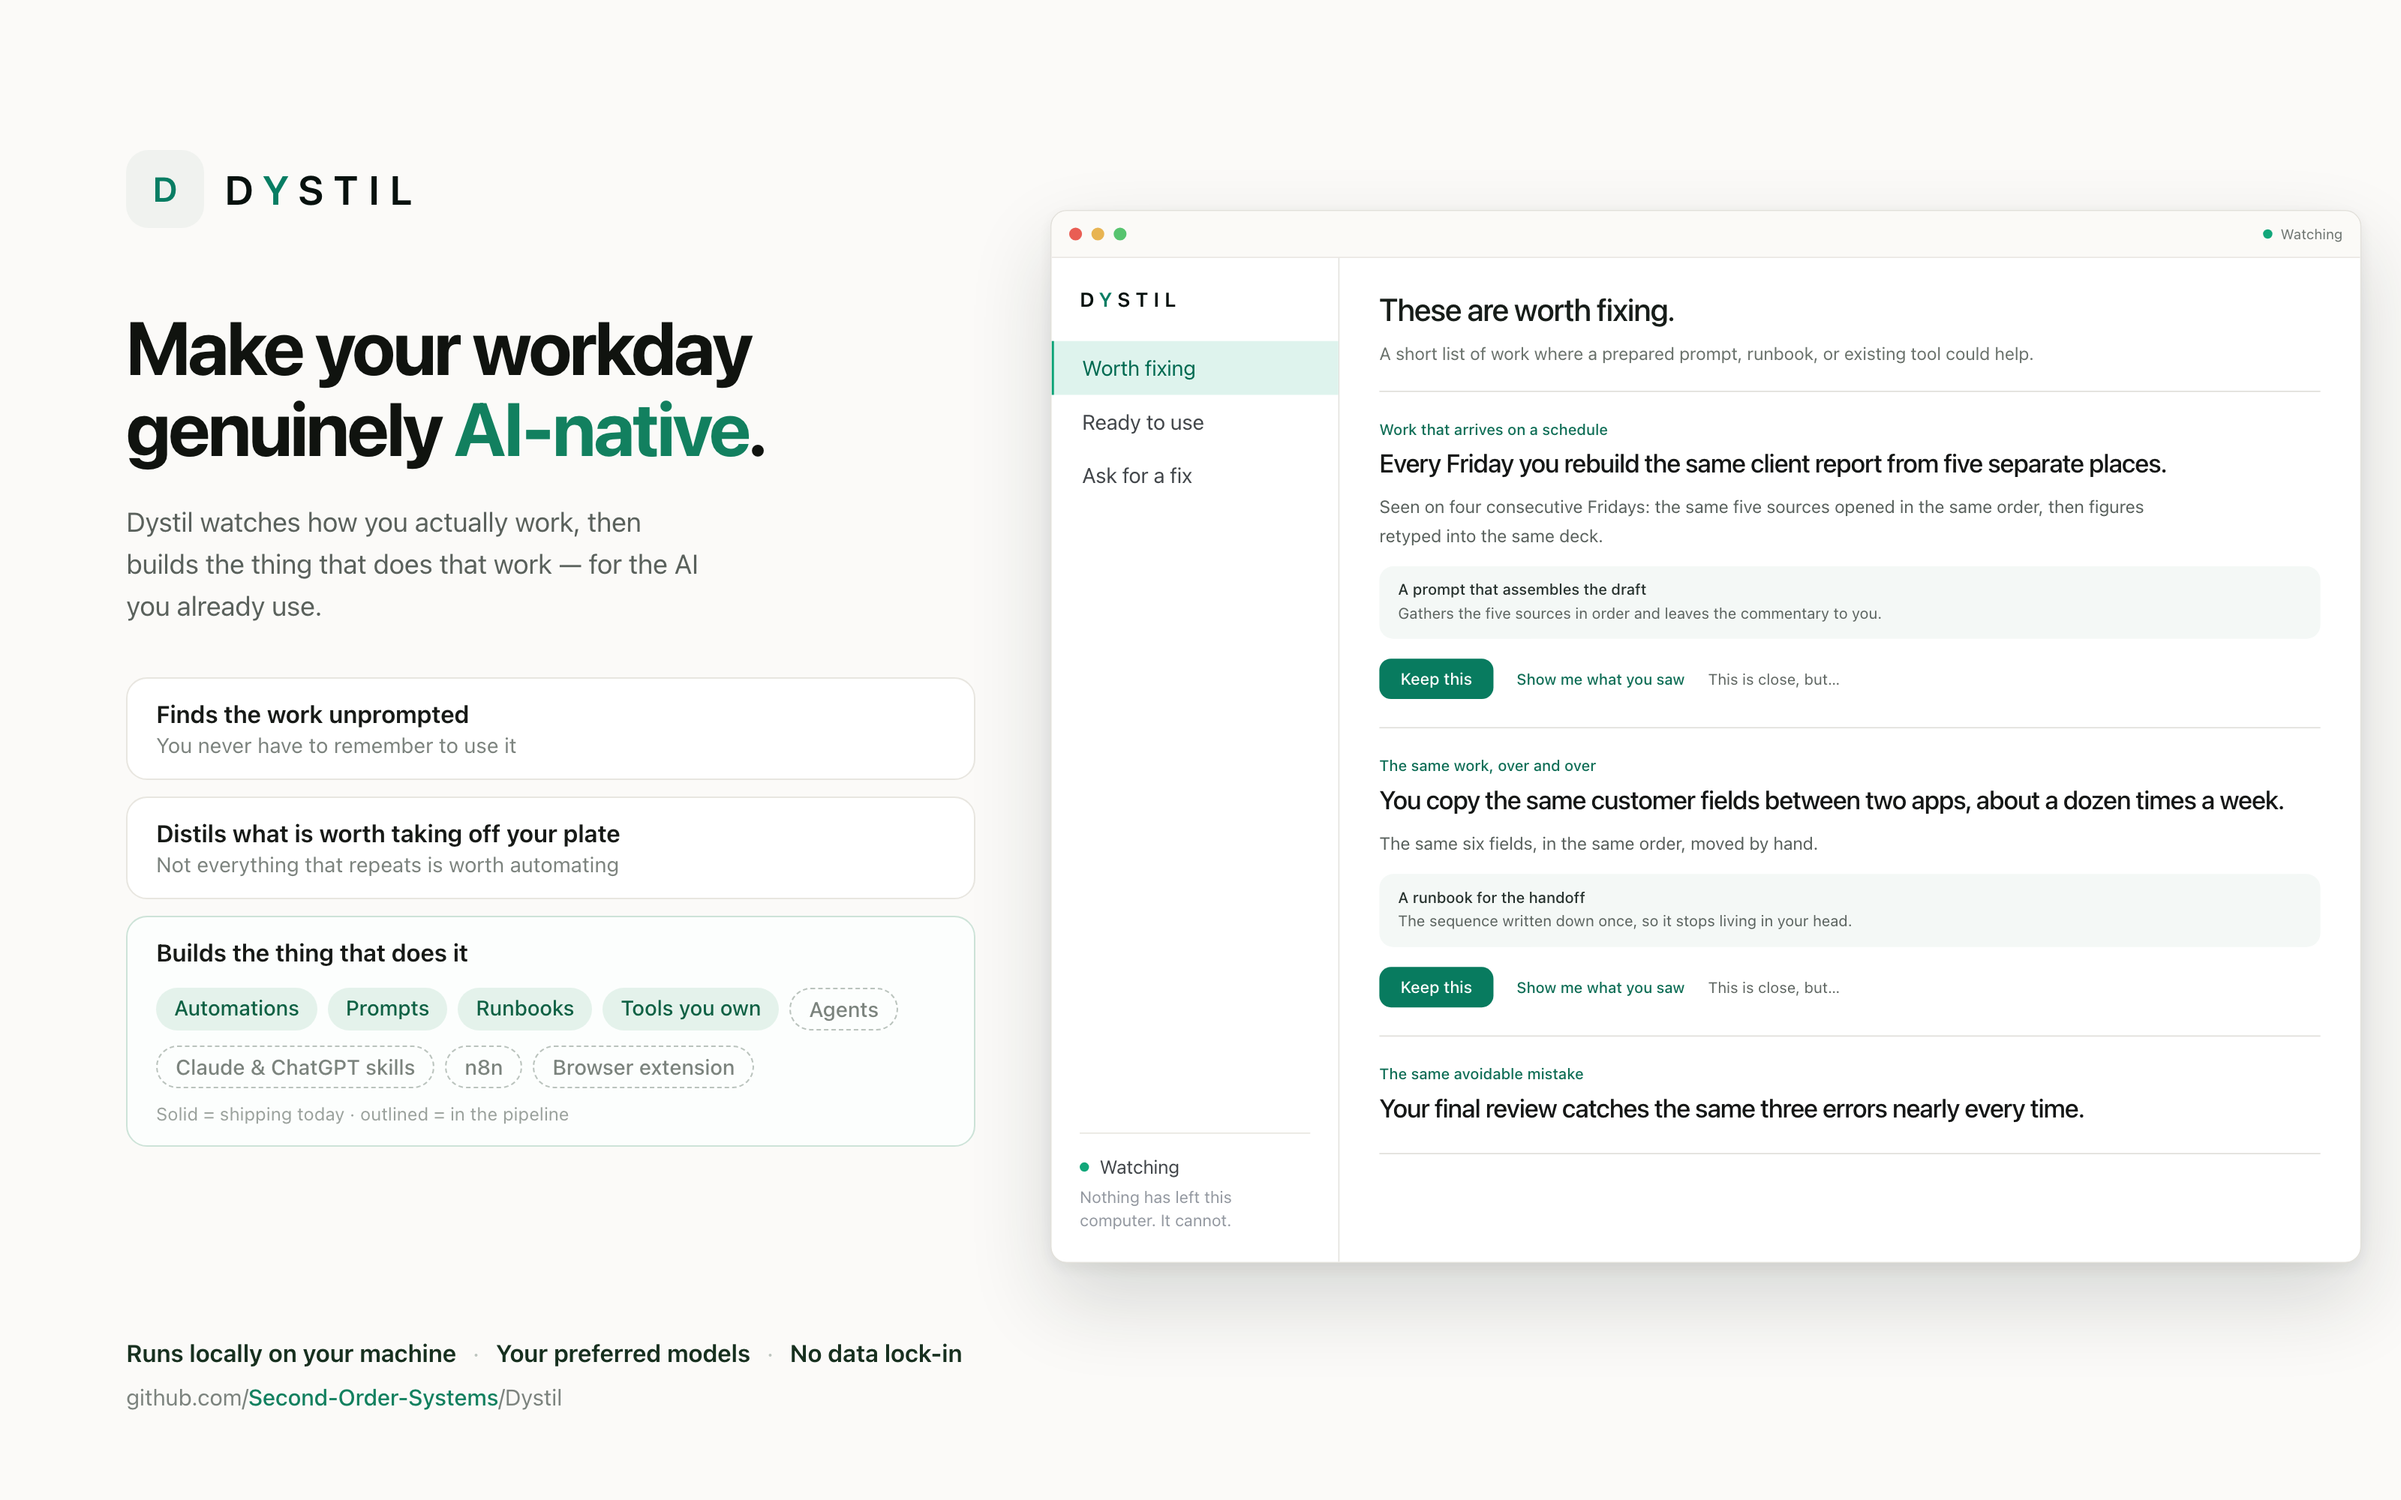
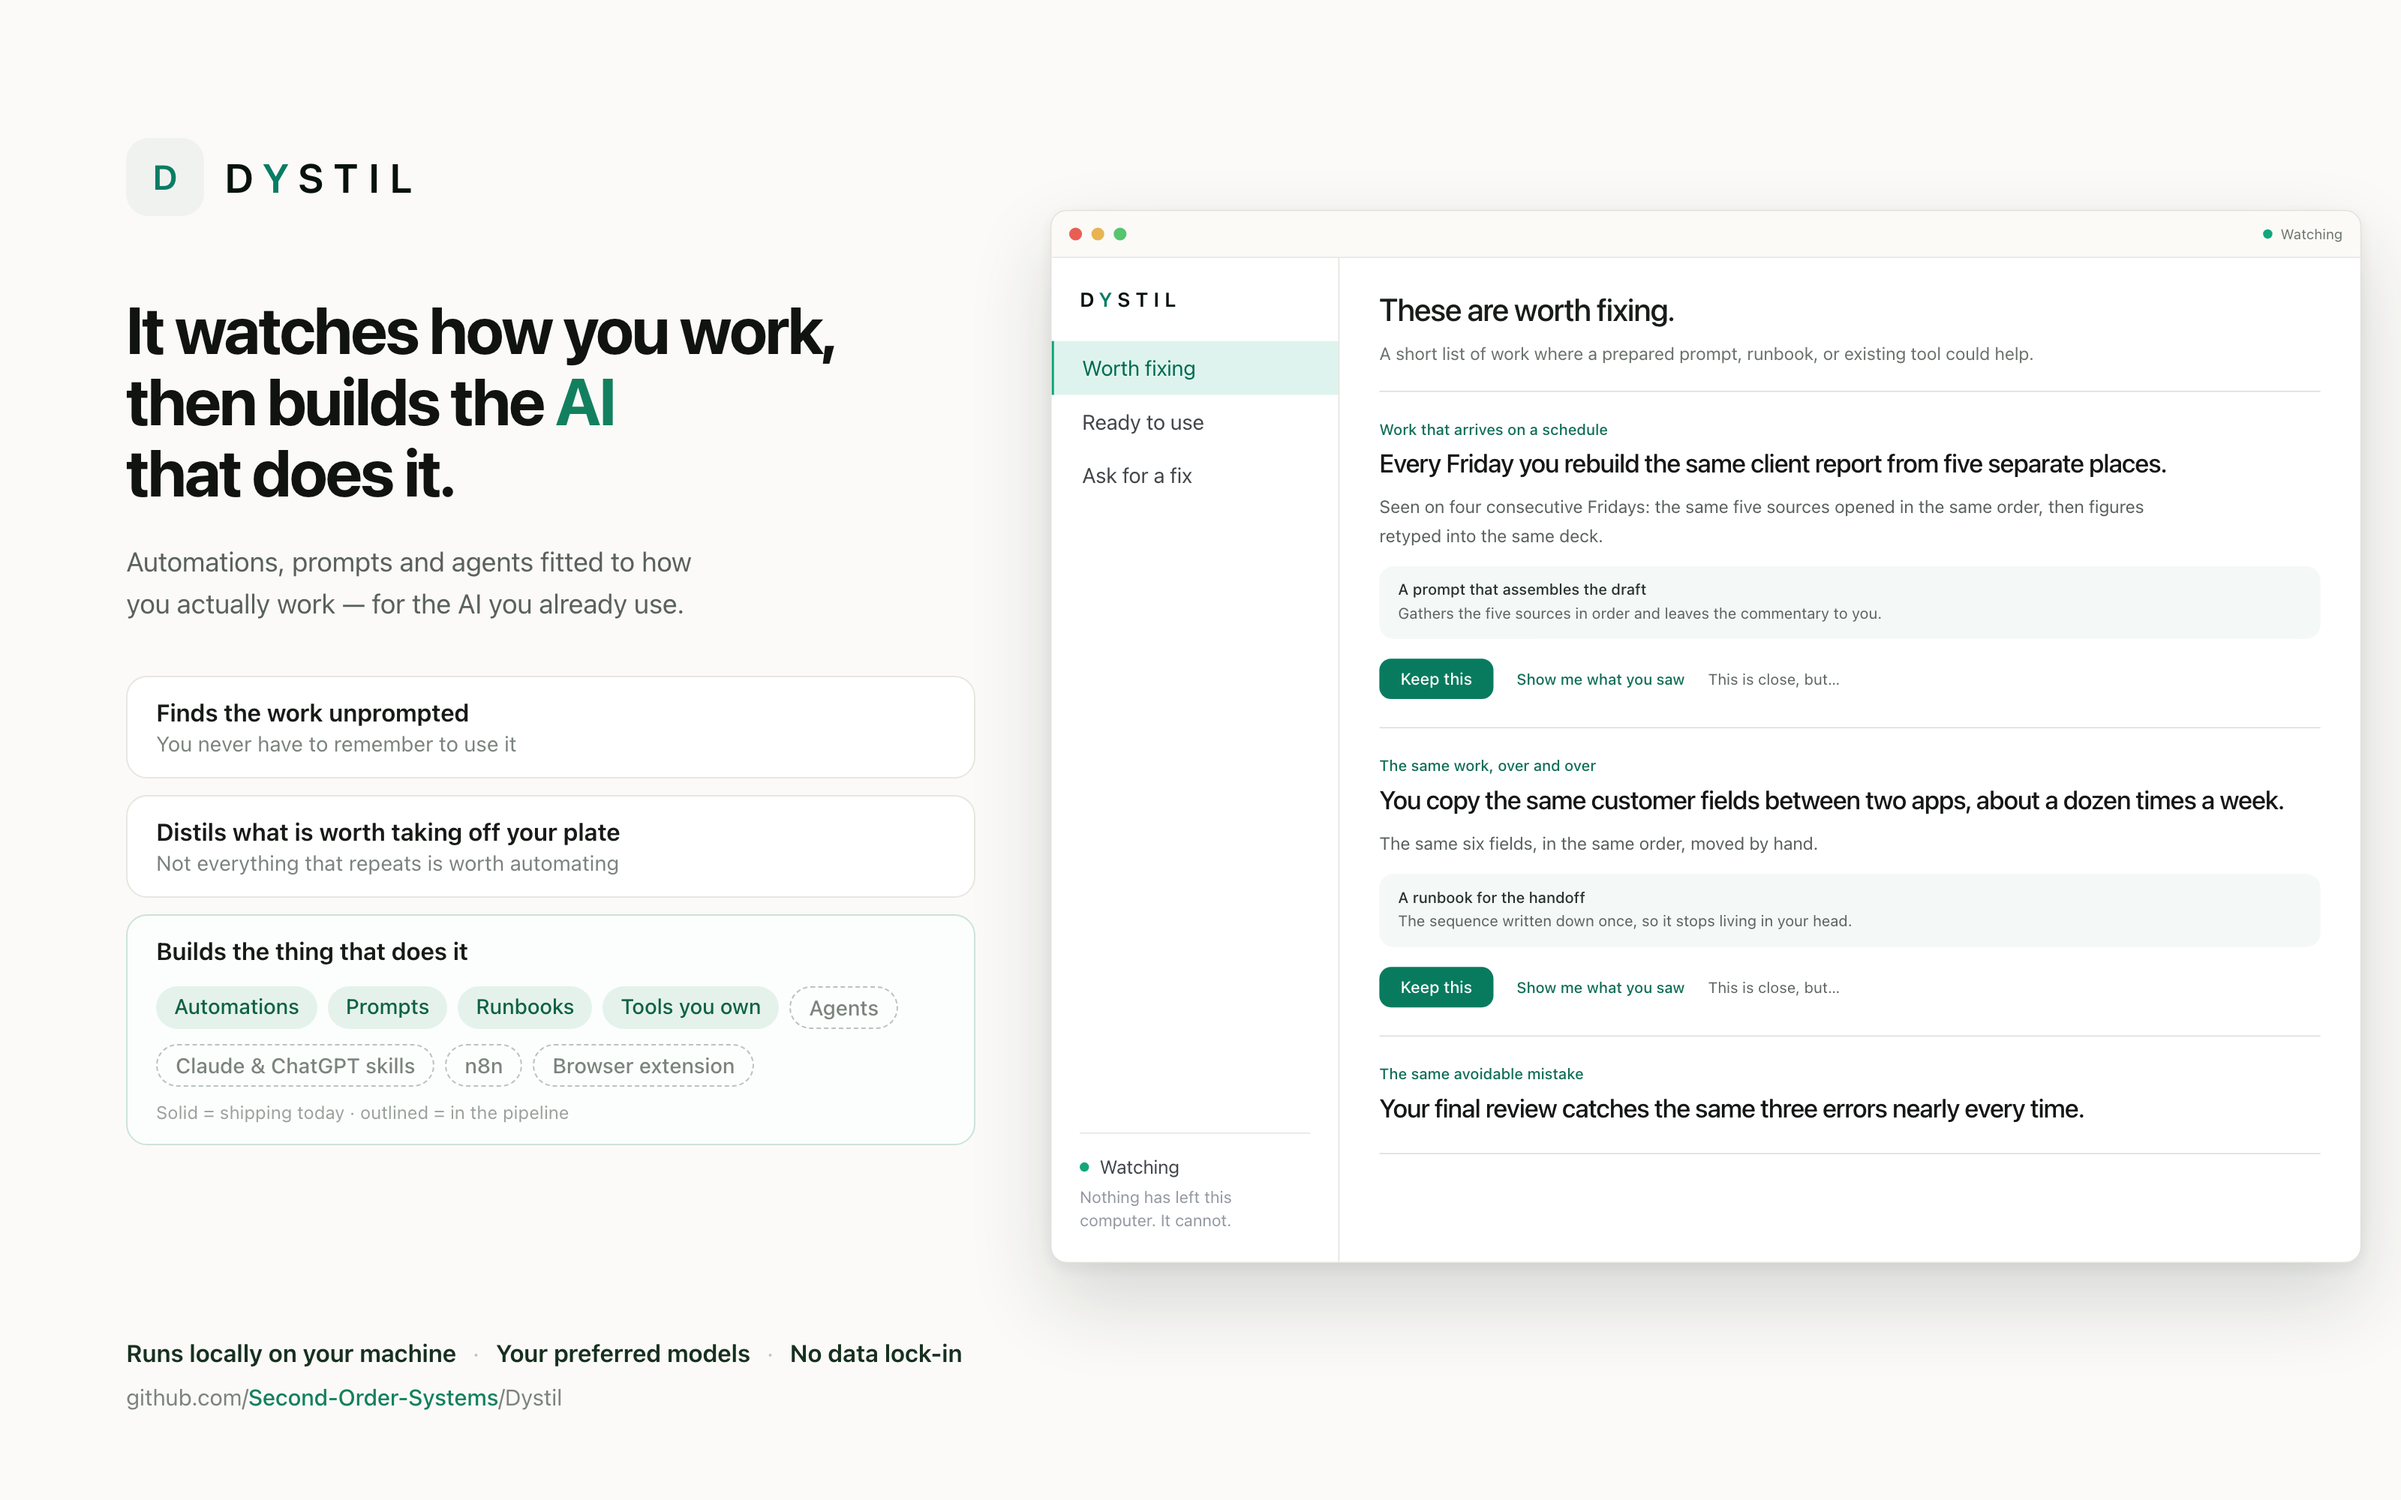
docs: replace the AI-native tagline with what the product actually does
"Make your workday genuinely AI-native" was a category label rather than a
claim. The reader cannot picture anything from it, every vendor in the space
says it, and it buried the two things nobody else can say: that it watched you,
and that it builds the thing.

The tagline is now "It watches how you work, then builds the AI that does it."
Mechanism and outcome in one line, no jargon, and it is difficult to say
truthfully about any competing product.

The supporting line stops restating the headline and lists the output instead —
automations, prompts and agents, for the AI you already use. The blockquote
below it no longer duplicates the header either; it now covers the middle step,
the one question only the user can answer.

Carried through POSITIONING.md, PRODUCT.md, MARKETING_NARRATIVE.md and the hero
banner, with a note in POSITIONING.md recording why AI-native was dropped so it
does not come back.

diff --git a/public_docs/media/src/hero.html b/public_docs/media/src/hero.html
@@ -4,14 +4,14 @@
 body { background: #FBFAF8; display: block; position: relative; }
 .sheet { position: absolute; inset: 0; overflow: hidden; }
 
-.left { position: absolute; left: 84px; top: 100px; width: 566px; }
+.left { position: absolute; left: 84px; top: 92px; width: 590px; }
 .mark { display: flex; align-items: center; gap: 14px; margin-bottom: 52px; }
 .mark .glyph { width: 52px; height: 52px; border-radius: 15px; background: #F0F2EF;
   display: grid; place-items: center; font-size: 23px; font-weight: 600; color: #087D63; }
 .mark .name { font-size: 27px; font-weight: 600; letter-spacing: .26em; color: #07110E; }
 .mark .name i { font-style: normal; color: #087D63; }
 
-h1.hero { font-size: 50px; font-weight: 700; line-height: 1.08; letter-spacing: -.035em; color: #10130F; }
+h1.hero { font-size: 44px; font-weight: 700; line-height: 1.08; letter-spacing: -.035em; color: #10130F; }
 h1.hero em { font-style: normal; color: #12805F; }
 p.sub { margin-top: 22px; max-width: 34ch; font-size: 18px; line-height: 1.55; color: #5A615C; }
 
@@ -50,8 +50,8 @@ h1.page { font-size: 27px; }
       <div class="name">D<i>Y</i>STIL</div>
     </div>
 
-    <h1 class="hero">Make your workday<br>genuinely <em>AI-native</em>.</h1>
-    <p class="sub">Dystil watches how you actually work, then builds the thing that does that work — for the AI you already use.</p>
+    <h1 class="hero">It watches how you work,<br>then builds the <em>AI</em><br>that does it.</h1>
+    <p class="sub">Automations, prompts and agents fitted to how you actually work — for the AI you already use.</p>
 
     <div class="points">
       <div class="point"><b>Finds the work unprompted</b><span>You never have to remember to use it</span></div>

diff --git a/README.md b/README.md
@@ -3,8 +3,8 @@
 
   <h1>Dystil</h1>
 
-  <p><strong>Make your workday genuinely AI-native.</strong></p>
-  <p>Dystil watches how you actually work, then builds the agents, automations, and skills that do that work — for the AI you already use. On your machine, from your own evidence.</p>
+  <p><strong>It watches how you work, then builds the AI that does it.</strong></p>
+  <p>Automations, prompts and agents fitted to how you actually work — for the AI you already use. On your machine, from your own evidence.</p>
 
   <p><code>Rust</code> · <code>Tauri v2</code> · <code>Next.js</code> · <code>SQLite</code> · <code>Ollama</code> · <code>MCP</code></p>
 
@@ -18,7 +18,7 @@
 </div>
 
 <p align="center">
-  <img src="public_docs/media/hero.png" alt="Dystil — make your workday genuinely AI-native" width="100%">
+  <img src="public_docs/media/hero.png" alt="Dystil — it watches how you work, then builds the AI that does it" width="100%">
 </p>
 
 ---
@@ -28,16 +28,16 @@
 You have the models. You have the tools. You have probably paid for a few of them.
 And your day still looks almost exactly like it did before.
 
-That is not a tooling problem. Becoming AI-native is not something you install — it
-is knowing which parts of your work should stop being done by hand, and in what
-order. Nobody can tell you that. Every vendor arrives with the answer already
-chosen, and none of them have watched how work actually moves through your day.
+That is not a tooling problem. The hard part was never running a model — it is
+knowing which parts of your work should stop being done by hand, and in what order.
+Nobody can tell you that. Every vendor arrives with the answer already chosen, and
+none of them have watched how work actually moves through your day.
 
 So you buy the answer and hope it matches the question. Impressions, not evidence.
 
 **Dystil starts from the other end.**
 
-> ### It watches how you work, then builds the agent, automation, or skill that does that work — for the AI you already use.
+> ### It finds the work, asks you the one thing it cannot infer, and builds the agent, automation, or skill that does it.
 
 Not a report. Not a list of recommendations you still have to act on. Dystil finds
 the work, shows you the evidence, asks you the questions only you can answer, and

diff --git a/public_docs/POSITIONING.md b/public_docs/POSITIONING.md
@@ -18,10 +18,15 @@ fix this file.
 
 ## The one-liner
 
-**Make your workday genuinely AI-native.**
+**It watches how you work, then builds the AI that does it.**
 
-Supporting line: *Dystil watches how you actually work, then builds the agents,
-automations, and skills that do that work — for the AI you already use.*
+Supporting line: *Automations, prompts and agents fitted to how you actually work —
+for the AI you already use. On your machine.*
+
+This replaced "Make your workday genuinely AI-native." AI-native is a category
+label, not a claim: the reader cannot picture anything, every vendor says it, and it
+hides the two things nobody else can say — that it **watched you**, and that it
+**builds the thing**.
 
 The bold claim, and the one to lead with everywhere:
 
@@ -41,12 +46,12 @@ It runs on your machine. Nothing has to leave it.
 
 ## The frame that matters
 
-Lead with **AI-native**, not with repetition. "Finds the work you keep redoing" is
+Lead with **what it builds**, not with repetition. "Finds the work you keep redoing" is
 true and it is a good second sentence, but on its own it lands as a reminder app or
 a macro recorder. The larger claim is the right one:
 
-> Becoming AI-native is not something you install. It is knowing which parts of your
-> work should stop being done by hand, and in what order.
+> The hard part was never running a model. It is knowing which parts of your work
+> should stop being done by hand, and in what order.
 
 That is the gap Dystil fills, and it is why the product has to observe before it
 recommends. The site's opener carries it best:

diff --git a/public_docs/PRODUCT.md b/public_docs/PRODUCT.md
@@ -22,7 +22,7 @@ Dystil serves employees, knowledge workers, and domain experts whose work repeat
 
 ## Product Purpose
 
-Dystil makes a person's workday AI-native. It observes how they actually work, distils what is worth taking off their plate, and builds the thing that does it — an automation, a prompt, a runbook, or a pointer to a capability they already own. The output runs in the tools they already pay for.
+Dystil watches how a person works and builds the AI that does that work. It observes how they actually work, distils what is worth taking off their plate, and builds the thing that does it — an automation, a prompt, a runbook, or a pointer to a capability they already own. The output runs in the tools they already pay for.
 
 ## Positioning
 

diff --git a/public_docs/MARKETING_NARRATIVE.md b/public_docs/MARKETING_NARRATIVE.md
@@ -33,7 +33,7 @@ The long-term promise is not “software that takes notes for you.” It is:
 
 ## The shortest version
 
-**Make your workday genuinely AI-native.**
+**It watches how you work, then builds the AI that does it.**
 
 ## One-line options
 
